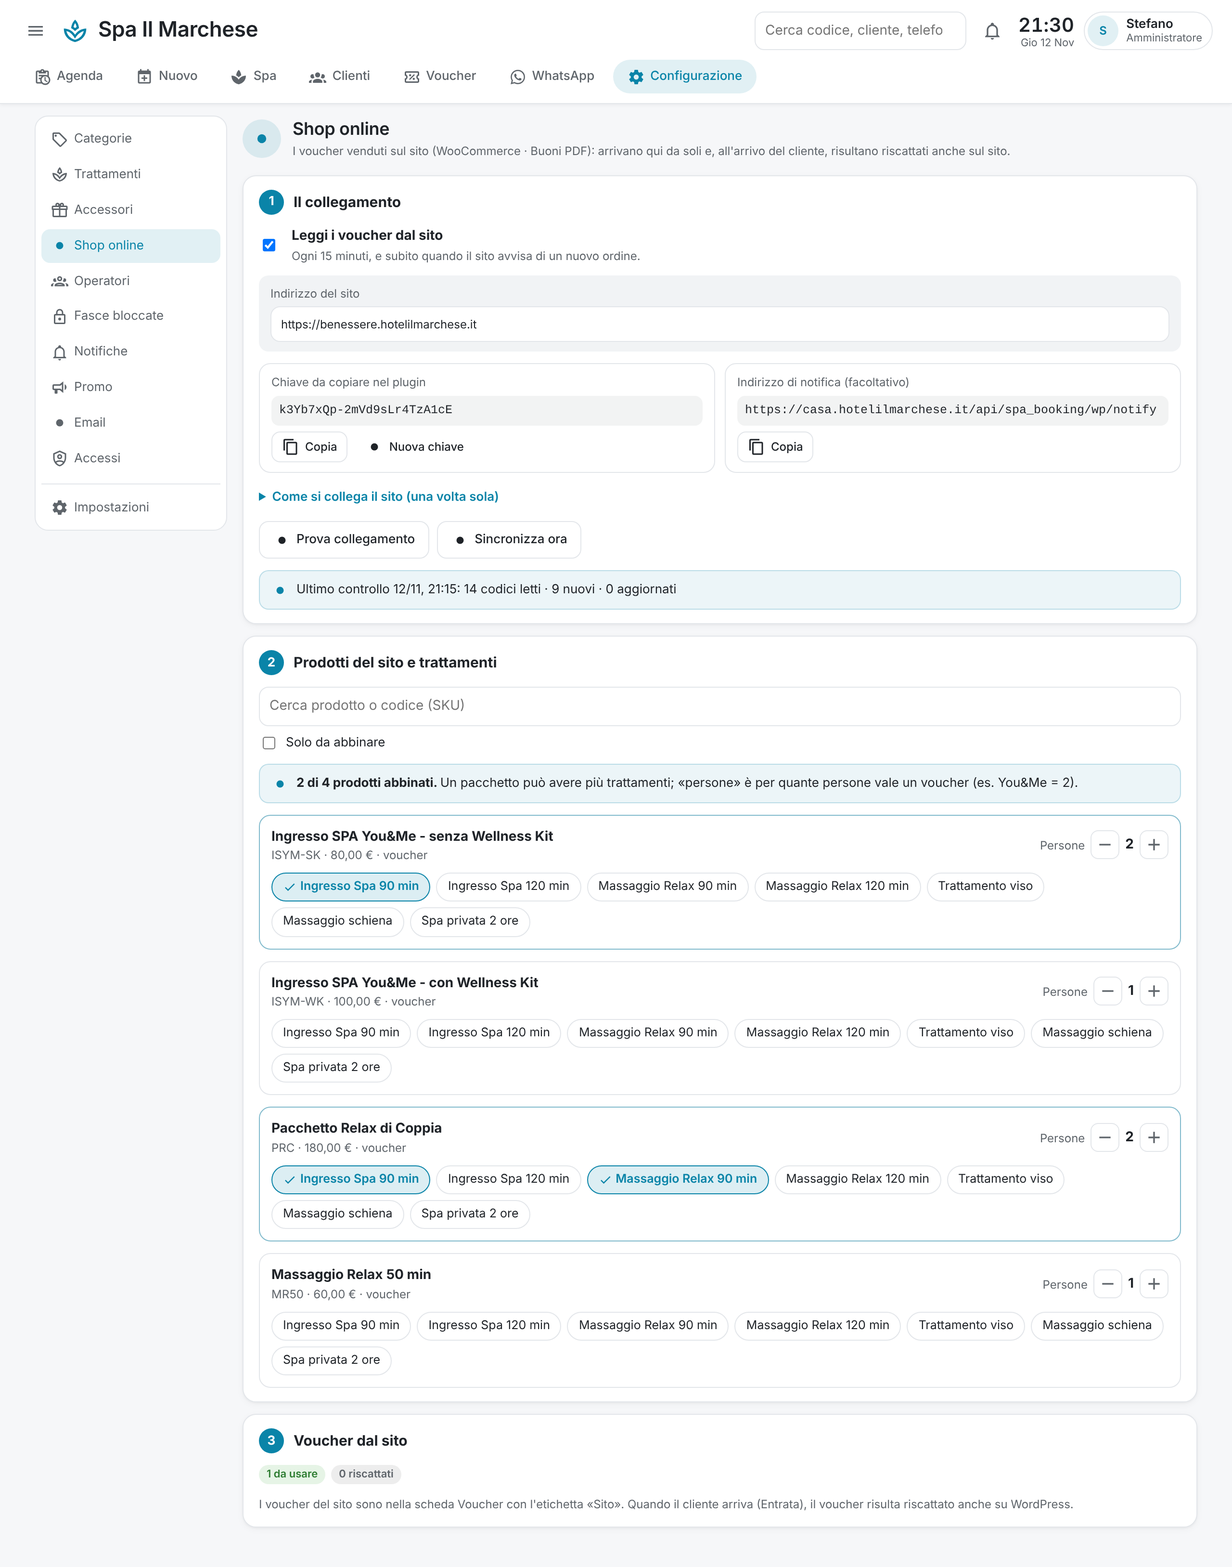
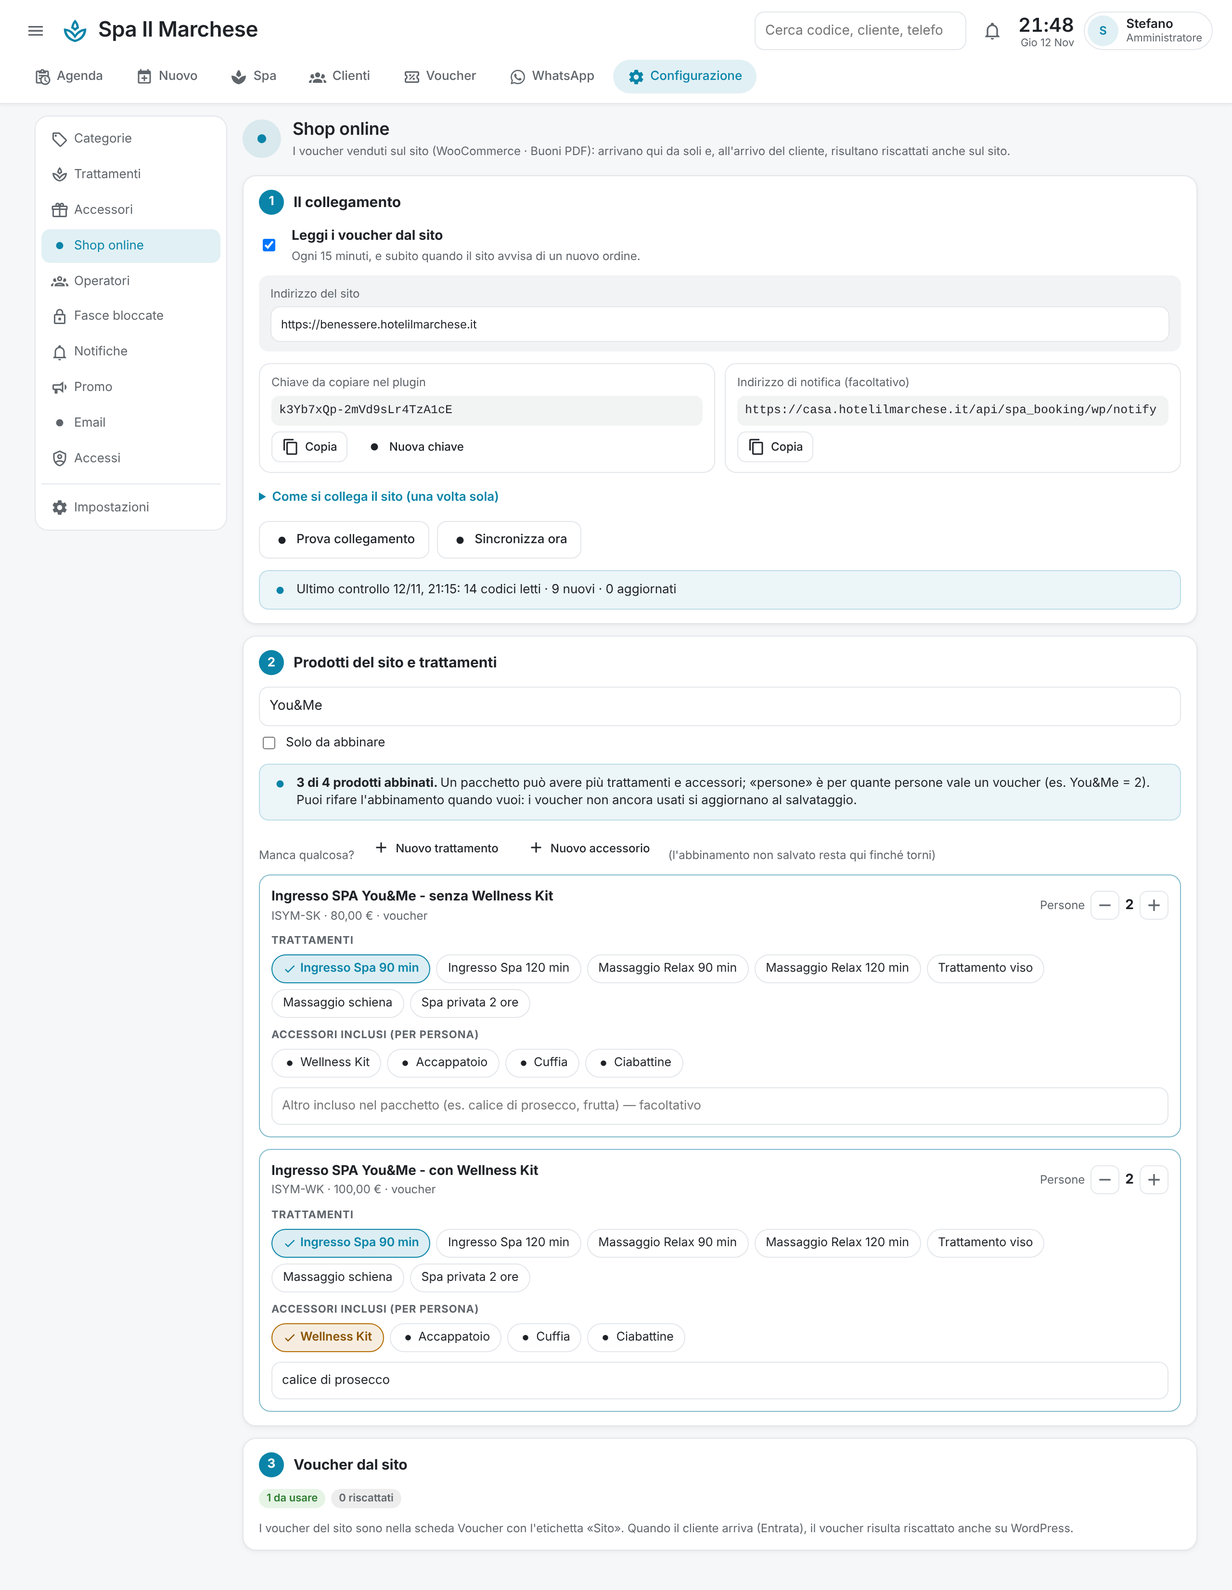
2.7.1: abbinamento prodotti con accessori e nota, voucher aggiornati al salvataggio (#39)
Claude-Session: https://claude.ai/code/session_01GttFfEWm9aErteTXHjR7ex

diff --git a/custom_components/spa_booking/frontend/spa-booking-card.js b/custom_components/spa_booking/frontend/spa-booking-card.js
@@ -18,7 +18,7 @@
  */
 
 const DOMAIN = "spa_booking";
-const CARD_VERSION = "2.7.0";
+const CARD_VERSION = "2.7.1";
 
 // Window of the "Uscite" panel at the top of the agenda: it opens this many
 // minutes before an appointment ends and lingers this many minutes after,
@@ -9479,6 +9479,7 @@ class SpaBookingCard extends HTMLElement {
         el("span", {}, el("ha-icon", { icon: "mdi:pencil" }),
           voucher.source === "wordpress" ? `Shop online${voucher.wp_order_id ? ` · ordine #${voucher.wp_order_id}` : ""}` : `Creato da ${voucher.created_by_name || "—"}`),
         voucher.source === "wordpress" && voucher.message ? el("span", {}, el("ha-icon", { icon: "mdi:message-heart-outline" }), `«${voucher.message}»`) : null,
+        voucher.package_note ? el("span", {}, el("ha-icon", { icon: "mdi:package-variant" }), `Incluso: ${voucher.package_note}`) : null,
         voucher.source === "wordpress" && state === "riscattato"
           ? el("span", { class: voucher.wp_redeemed ? "" : "warn" }, el("ha-icon", { icon: voucher.wp_redeemed ? "mdi:check-decagram" : "mdi:sync-alert" }),
             voucher.wp_redeemed ? "Riscattato anche sul sito" : (voucher.wp_redeem_error ? "Da segnare sul sito" : "Sul sito: all'arrivo del cliente"))
@@ -15111,47 +15112,68 @@ class SpaBookingCard extends HTMLElement {
     // 2. Products → treatments.
     const products = settings.wp_products || [];
     const treatments = (this._data.treatments || []).filter((t) => t.active !== false);
+    const accessories = this._accessories();
     const query = (this._shopQuery || "").trim().toLowerCase();
     const onlyFree = !!this._shopOnlyFree;
     const step2 = [];
     if (!products.length) {
       step2.push(el("div", { class: "empty" }, "Nessun prodotto ancora: premi «Prova collegamento» per leggere i prodotti del sito."));
     } else {
-      const paired = products.filter((p) => ((draft.wp_product_map[p.key] || {}).treatment_ids || []).length).length;
+      const isPaired = (key) => {
+        const entry = draft.wp_product_map[key] || {};
+        return Boolean((entry.treatment_ids || []).length || (entry.extras || []).length || entry.note);
+      };
+      const paired = products.filter((p) => isPaired(p.key)).length;
       const search = el("input", { class: "input grow shop-search", type: "search", value: this._shopQuery || "", placeholder: "Cerca prodotto o codice (SKU)" });
       this._searchInputRedraw(search, ".shop-search", (value) => { this._shopQuery = value; });
       step2.push(el("div", { class: "row" }, search,
         el("label", { class: "check" }, el("input", { type: "checkbox", checked: onlyFree, on: { change: (event) => { this._shopOnlyFree = event.target.checked; this._render(); } } }), "Solo da abbinare")));
       step2.push(el("div", { class: "pg-sum" }, el("ha-icon", { icon: "mdi:link-variant" }),
         el("span", {}, el("b", {}, `${paired} di ${products.length} prodotti abbinati. `),
-          "Un pacchetto può avere più trattamenti; «persone» è per quante persone vale un voucher (es. You&Me = 2).")));
+          "Un pacchetto può avere più trattamenti e accessori; «persone» è per quante persone vale un voucher (es. You&Me = 2). Puoi rifare l'abbinamento quando vuoi: i voucher non ancora usati si aggiornano al salvataggio.")),
+        el("div", { class: "row" },
+          el("span", { class: "dim small" }, "Manca qualcosa?"),
+          el("button", { class: "btn small ghost", on: { click: () => { this._cfgTab = "trattamenti"; this._render(); } } }, el("ha-icon", { icon: "mdi:plus" }), "Nuovo trattamento"),
+          el("button", { class: "btn small ghost", on: { click: () => { this._cfgTab = "accessori"; this._render(); } } }, el("ha-icon", { icon: "mdi:plus" }), "Nuovo accessorio"),
+          el("span", { class: "dim small" }, "(l'abbinamento non salvato resta qui finché torni)")));
       const shown = products.filter((p) => {
         const entry = draft.wp_product_map[p.key] || {};
-        if (onlyFree && (entry.treatment_ids || []).length) return false;
+        if (onlyFree && isPaired(p.key)) return false;
         return !query || [p.name, p.parent_name, p.sku].join(" ").toLowerCase().includes(query);
       });
       shown.forEach((product) => {
-        const entry = draft.wp_product_map[product.key] || { people: 1, treatment_ids: [] };
-        const set = (patch) => {
-          const next = { people: entry.people || 1, treatment_ids: [...(entry.treatment_ids || [])], ...patch };
-          if (!next.treatment_ids.length) delete draft.wp_product_map[product.key];
+        const entry = draft.wp_product_map[product.key] || { people: 1, treatment_ids: [], extras: [], note: "" };
+        const set = (patch, redraw = true) => {
+          const next = { people: entry.people || 1, treatment_ids: [...(entry.treatment_ids || [])], extras: [...(entry.extras || [])], note: entry.note || "", ...patch };
+          if (!next.treatment_ids.length && !next.extras.length && !next.note) delete draft.wp_product_map[product.key];
           else draft.wp_product_map[product.key] = next;
+          Object.assign(entry, next);
           changed();
-          this._render();
+          if (redraw) this._render();
         };
         const chosen = new Set(entry.treatment_ids || []);
-        step2.push(el("div", { class: `shop-prod${chosen.size ? " on" : ""}` },
+        const chosenExtras = new Set(entry.extras || []);
+        const any = chosen.size || chosenExtras.size;
+        step2.push(el("div", { class: `shop-prod${any || entry.note ? " on" : ""}` },
           el("div", { class: "shop-prod-head" },
             el("div", { class: "shop-prod-name" }, el("b", {}, product.name || product.parent_name),
               el("span", { class: "dim small" }, [product.sku, product.price != null ? euro(product.price) : "", product.voucher ? "voucher" : ""].filter(Boolean).join(" · "))),
             el("div", { class: "shop-people" }, el("span", { class: "dim small" }, "Persone"),
-              el("button", { class: "icon-btn", disabled: (entry.people || 1) <= 1 || !chosen.size, on: { click: () => set({ people: (entry.people || 1) - 1 }) } }, el("ha-icon", { icon: "mdi:minus" })),
+              el("button", { class: "icon-btn", disabled: (entry.people || 1) <= 1 || !any, on: { click: () => set({ people: (entry.people || 1) - 1 }) } }, el("ha-icon", { icon: "mdi:minus" })),
               el("b", {}, String(entry.people || 1)),
-              el("button", { class: "icon-btn", disabled: (entry.people || 1) >= 10 || !chosen.size, on: { click: () => set({ people: (entry.people || 1) + 1 }) } }, el("ha-icon", { icon: "mdi:plus" })))),
+              el("button", { class: "icon-btn", disabled: (entry.people || 1) >= 10 || !any, on: { click: () => set({ people: (entry.people || 1) + 1 }) } }, el("ha-icon", { icon: "mdi:plus" })))),
+          el("div", { class: "shop-label" }, "Trattamenti"),
           el("div", { class: "shop-chips" }, treatments.map((t) => el("button", {
             type: "button", class: `shop-chip${chosen.has(t.id) ? " on" : ""}`,
             on: { click: () => set({ treatment_ids: chosen.has(t.id) ? [...chosen].filter((id) => id !== t.id) : [...chosen, t.id] }) },
-          }, chosen.has(t.id) ? el("ha-icon", { icon: "mdi:check" }) : null, t.name)))));
+          }, chosen.has(t.id) ? el("ha-icon", { icon: "mdi:check" }) : null, t.name))),
+          accessories.length ? el("div", { class: "shop-label" }, "Accessori inclusi (per persona)") : null,
+          accessories.length ? el("div", { class: "shop-chips" }, accessories.map((a) => el("button", {
+            type: "button", class: `shop-chip acc${chosenExtras.has(a.id) ? " on" : ""}`,
+            on: { click: () => set({ extras: chosenExtras.has(a.id) ? [...chosenExtras].filter((id) => id !== a.id) : [...chosenExtras, a.id] }) },
+          }, el("ha-icon", { icon: chosenExtras.has(a.id) ? "mdi:check" : (a.icon || "mdi:gift-outline") }), a.label))) : null,
+          el("input", { class: "input shop-note", value: entry.note || "", placeholder: "Altro incluso nel pacchetto (es. calice di prosecco, frutta) — facoltativo",
+            on: { input: (event) => set({ note: event.target.value }, false), change: () => this._render() } })));
       });
       if (!shown.length) step2.push(el("div", { class: "empty" }, "Nessun prodotto con questo filtro."));
     }
@@ -20634,6 +20656,9 @@ class SpaBookingCard extends HTMLElement {
       .shop-chip ha-icon { --mdc-icon-size: 14px; }
       .shop-chip.on { background: color-mix(in srgb, var(--primary-color) 14%, transparent); border-color: var(--primary-color); color: var(--primary-color); font-weight: 600; }
       .shop-chip:focus-visible { outline: 2px solid var(--primary-color); }
+      .shop-chip.acc.on { background: color-mix(in srgb, #b26b00 12%, transparent); border-color: #b26b00; color: #8a5300; }
+      .shop-label { font-size: 11px; font-weight: 700; letter-spacing: .05em; text-transform: uppercase; color: var(--secondary-text-color); margin-bottom: -4px; }
+      .shop-note { font-size: 13px; }
       .ticket-top .pill ha-icon { --mdc-icon-size: 13px; margin-right: 3px; }
       /* 2.5.5: the month, with the chosen day beside it */
       .ag-pill.static { cursor: default; }

diff --git a/tests/frontend/card_shop_test.js b/tests/frontend/card_shop_test.js
@@ -33,3 +33,15 @@ assert(page.textContent.includes("1 di 2 prodotti abbinati"), "count updated");
 const row = card._voucherRow(card._data.vouchers[0], true);
 assert(row.textContent.includes("Sito") && row.textContent.includes("da abbinare"), "site badge and unpaired product");
 assert(card._voucherValue(card._data.vouchers[0]) === 80, "value from the shop");
+
+// 2.7.1: accessories in the package and a note; paired again later.
+card._data.settings.accessories = [{ id: "kit", label: "Wellness Kit", icon: "mdi:bag-personal" }];
+card._shopDraft = null;
+page = card._renderShop();
+const accChip = all(page).find((n) => n.attrs && n.attrs.class && n.attrs.class.startsWith("shop-chip acc") && n.textContent === "Wellness Kit");
+assert(accChip, "accessory chips in the pairing");
+accChip.listeners.click[0]();
+const key = Object.keys(card._shopDraft.wp_product_map).find((k) => (card._shopDraft.wp_product_map[k].extras || []).includes("kit"));
+assert(key, "accessory paired");
+page = card._renderShop();
+assert(page.textContent.includes("Nuovo accessorio") && page.textContent.includes("rifare l'abbinamento"), "links to add what is missing");

diff --git a/custom_components/spa_booking/coordinator.py b/custom_components/spa_booking/coordinator.py
@@ -2521,8 +2521,9 @@ class SpaBookingCoordinator(DataUpdateCoordinator[dict[str, Any]]):
             for entry in row.get("entries") or []:
                 person = int(entry.get("person") or 0)
                 booked.setdefault(person, []).append(str(row.get("treatment_id") or ""))
-        # A voucher from the shop whose product is not paired yet only records
-        # the code (2.7.0): the desk books what the guest bought.
+        # A voucher from the shop whose product is not paired yet (or paired
+        # with accessories only) only records the code: the desk books what
+        # the guest bought (2.7.0).
         if voucher.get("source") == "wordpress" and not any(p["treatment_ids"] for p in voucher["people"]):
             return
         wanted = [sorted(p["treatment_ids"]) for p in voucher["people"]]
@@ -3323,6 +3324,29 @@ class SpaBookingCoordinator(DataUpdateCoordinator[dict[str, Any]]):
         mapping = self._data.get(KEY_SETTINGS, {}).get("wp_product_map") or {}
         return wp_shop.people_of(wp_shop.mapping_for(mapping, product_id, variation_id))
 
+    def _wp_apply_pairing(self) -> int:
+        """Bring every unused voucher from the shop in line with the pairing.
+
+        Run when the pairing is saved (2.7.1) and at every check of the shop:
+        a product paired again later, with the treatments or accessories that
+        were missing, updates the vouchers already received. Called with the
+        lock held.
+        """
+        mapping = self._data.get(KEY_SETTINGS, {}).get("wp_product_map") or {}
+        changed = 0
+        for voucher in self.vouchers:
+            if voucher.get("source") != "wordpress" or voucher["status"] != VOUCHER_ACTIVE:
+                continue
+            product_id, _, variation_id = str(voucher.get("wp_product_key") or "0:0").partition(":")
+            entry = wp_shop.mapping_for(mapping, product_id, variation_id or 0)
+            people = wp_shop.people_of(entry)
+            note = wp_shop.note_of(entry)
+            if people != voucher["people"] or note != voucher.get("package_note", ""):
+                voucher["people"] = people
+                voucher["package_note"] = note
+                changed += 1
+        return changed
+
     async def async_wp_sync(self, reason: str = "") -> dict[str, Any]:
         """Read the vouchers sold on the shop and bring the list up to date.
 
@@ -3365,6 +3389,9 @@ class SpaBookingCoordinator(DataUpdateCoordinator[dict[str, Any]]):
                         "wp_order_id": item.get("order_id"),
                         "wp_product_key": wp_shop.product_key(item.get("product_id"), item.get("variation_id")),
                         "wp_product_name": item.get("product_name"), "expires_on": expires,
+                        "package_note": wp_shop.note_of(wp_shop.mapping_for(
+                            self._data.get(KEY_SETTINGS, {}).get("wp_product_map") or {},
+                            item.get("product_id"), item.get("variation_id"))),
                         "created_at": str(item.get("order_date") or dt_util.utcnow().isoformat()),
                         "created_by_name": "Shop online",
                     })
@@ -3375,10 +3402,6 @@ class SpaBookingCoordinator(DataUpdateCoordinator[dict[str, Any]]):
                 if voucher.get("source") != "wordpress":
                     continue
                 changed = False
-                # The pairing may have changed: an unused voucher follows it.
-                if voucher["status"] == VOUCHER_ACTIVE and people and people != voucher["people"]:
-                    voucher["people"] = people
-                    changed = True
                 if expires and voucher.get("expires_on") != expires:
                     voucher["expires_on"] = expires
                     changed = True
@@ -3397,6 +3420,8 @@ class SpaBookingCoordinator(DataUpdateCoordinator[dict[str, Any]]):
                     voucher["wp_note"] = "ordine annullato o rimborsato sul sito"
                     changed = True
                 updated += 1 if changed else 0
+            # The pairing may have changed since: unused vouchers follow it.
+            updated += self._wp_apply_pairing()
             # Booked, then every booking cancelled before the guest came: usable again.
             appointments = {a["id"]: a for a in self.appointments}
             for voucher in self.vouchers:
@@ -7477,6 +7502,7 @@ class SpaBookingCoordinator(DataUpdateCoordinator[dict[str, Any]]):
                 if key in settings and value is not None:
                     settings[key] = value
             settings = _norm_settings(settings)
+            pairing_changed = "wp_product_map" in changes
             # Switching the website on issues its token straight away, so the
             # card can show the value to copy before the first guest arrives;
             # switching it off keeps the token, ready for the next season.
@@ -7485,6 +7511,8 @@ class SpaBookingCoordinator(DataUpdateCoordinator[dict[str, Any]]):
             ).strip():
                 settings["web_token"] = secrets.token_urlsafe(32)
             self._data[KEY_SETTINGS] = settings
+            if pairing_changed:
+                self._wp_apply_pairing()
             await self._async_save()
         if "whatsapp_engine" in changes:
             await self.async_apply_whatsapp_engine()

diff --git a/custom_components/spa_booking/wp_shop.py b/custom_components/spa_booking/wp_shop.py
@@ -41,18 +41,24 @@ def mapping_for(mapping: dict[str, Any], product_id: Any, variation_id: Any) -> 
     """The pairing of a variation, else of its whole product."""
     for key in (product_key(product_id, variation_id), product_key(product_id, 0)):
         entry = mapping.get(key)
-        if isinstance(entry, dict) and entry.get("treatment_ids"):
+        if isinstance(entry, dict) and (entry.get("treatment_ids") or entry.get("extras") or entry.get("note")):
             return entry
     return None
 
 
 def people_of(entry: dict[str, Any] | None) -> list[dict[str, Any]]:
-    """The voucher's people: each one gets every paired treatment."""
-    if not entry:
+    """The voucher's people: each one gets every paired treatment and accessory."""
+    if not entry or not (entry.get("treatment_ids") or entry.get("extras")):
         return []
     count = max(1, min(10, int(entry.get("people") or 1)))
     treatments = [str(t) for t in entry.get("treatment_ids") or [] if t]
-    return [{"name": "", "treatment_ids": list(treatments), "extras": [], "gift_card_amount": None} for _ in range(count)]
+    extras = [str(e) for e in entry.get("extras") or [] if e]
+    return [{"name": "", "treatment_ids": list(treatments), "extras": list(extras), "gift_card_amount": None} for _ in range(count)]
+
+
+def note_of(entry: dict[str, Any] | None) -> str:
+    """What the package also includes, in words (what has no record here)."""
+    return str((entry or {}).get("note") or "").strip()
 
 
 async def _request(session: Any, method: str, base: str, secret: str, path: str, **kwargs: Any) -> dict[str, Any]:

diff --git a/tests/test_wp_shop.py b/tests/test_wp_shop.py
@@ -99,3 +99,21 @@ def test_mapping_helpers() -> None:
     assert wp_shop.mapping_for(mapping, 4097, 9999)["people"] == 2
     assert wp_shop.mapping_for(mapping, 1, 0) is None
     assert len(wp_shop.people_of({"people": 3, "treatment_ids": ["a"]})) == 3
+
+
+def test_pairing_again_updates_unused_vouchers(coordinator, shop) -> None:
+    """2.7.1: a package paired later, with accessories and a note, updates the vouchers received."""
+    run(coordinator.async_update_settings(wp_product_map={}))
+    run(coordinator.async_wp_sync())
+    voucher = next(v for v in coordinator.vouchers if v["source"] == "wordpress")
+    assert voucher["people"] == []
+    run(coordinator.async_update_settings(wp_product_map={"4097:5118": {
+        "people": 2, "treatment_ids": ["trt_ingresso_90"], "extras": ["kit"], "note": "calice di prosecco"}}))
+    assert [p["extras"] for p in voucher["people"]] == [["kit"], ["kit"]]
+    assert voucher["package_note"] == "calice di prosecco"
+    # Unpaired again: back to «book what was bought».
+    run(coordinator.async_update_settings(wp_product_map={}))
+    assert voucher["people"] == [] and voucher["package_note"] == ""
+    # Accessories only: the voucher records them but does not force treatments.
+    run(coordinator.async_update_settings(wp_product_map={"4097:0": {"people": 1, "extras": ["kit"]}}))
+    assert voucher["people"][0]["treatment_ids"] == [] and voucher["people"][0]["extras"] == ["kit"]

diff --git a/custom_components/spa_booking/normalize.py b/custom_components/spa_booking/normalize.py
@@ -241,6 +241,8 @@ def _norm_voucher(raw: Any) -> dict[str, Any]:
         "wp_redeemed_at": str(raw.get("wp_redeemed_at") or ""),
         "wp_redeem_error": str(raw.get("wp_redeem_error") or ""),
         "wp_note": str(raw.get("wp_note") or ""),
+        # What the package also includes that has no record here (2.7.1).
+        "package_note": str(raw.get("package_note") or "").strip(),
     }
 
 
@@ -1025,6 +1027,9 @@ def _norm_settings(raw: dict[str, Any]) -> dict[str, Any]:
             str(key): {
                 "people": _norm_count((entry or {}).get("people"), 1, 10, 1),
                 "treatment_ids": [str(t) for t in (entry or {}).get("treatment_ids") or [] if t][:20],
+                # The accessories in the package (2.7.1), given to each person.
+                "extras": [str(e) for e in (entry or {}).get("extras") or [] if e][:20],
+                "note": str((entry or {}).get("note") or "").strip()[:300],
             }
             for key, entry in (raw.get("wp_product_map") or {}).items()
             if isinstance(entry, dict) and re.fullmatch(r"\d+:\d+", str(key))

diff --git a/docs/GUIDA.md b/docs/GUIDA.md
@@ -51,7 +51,12 @@ I voucher venduti su **benessere.hotelilmarchese.it** (WooCommerce con
 
 **Abbinare i prodotti** – per ogni prodotto o variante scegli uno o più
 trattamenti (un pacchetto ne ha più di uno) e per quante persone vale (es.
-You&Me = 2). Un voucher di un prodotto non abbinato si può comunque usare:
+You&Me = 2). Nei pacchetti scegli anche gli **accessori inclusi** e, se c'è
+qualcosa che non esiste in Spa Booking, scrivilo nella nota «altro incluso».
+Se manca un trattamento o un accessorio, crealo con «Nuovo trattamento» /
+«Nuovo accessorio» e torna: l'abbinamento non salvato resta lì. Puoi rifare
+l'abbinamento quando vuoi: al salvataggio i voucher non ancora usati si
+aggiornano. Un voucher di un prodotto non abbinato si può comunque usare:
 prenoti quello che il cliente ha acquistato.
 
 **Come funziona** – ogni 15 minuti (e subito quando il sito avvisa di un

diff --git a/README.md b/README.md
@@ -133,6 +133,12 @@ apri una pull request: `main` resta sempre installabile.
 
 ## Changelog
 
+- **v2.7.1** — Shop online: nell'abbinamento dei prodotti anche gli
+  **accessori inclusi** (per persona) e una nota «altro incluso» per ciò che
+  non è in Spa Booking; tasti rapidi «Nuovo trattamento» / «Nuovo accessorio»
+  senza perdere l'abbinamento in corso. L'abbinamento si può rifare quando si
+  vuole: al salvataggio i voucher dal sito non ancora usati si aggiornano
+  subito (serve il riavvio di Home Assistant).
 - **v2.7.0** — **Shop online (WooCommerce · Buoni PDF)** (serve il riavvio di
   Home Assistant e il plugin `wordpress/spa-booking-connector.zip` sul sito):
   i voucher venduti sul sito arrivano da soli in Spa Booking (ogni 15 minuti e
